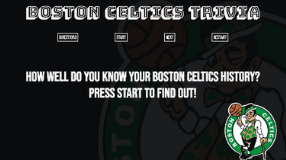
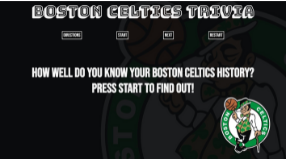
multiple css changes

diff --git a/src/components/ProjectCard/ProjectCard.js b/src/components/ProjectCard/ProjectCard.js
@@ -6,42 +6,42 @@ import styles from "./ProjectCard.module.css"
 
 export default function ProjectCard() {
     return (
+   <>    
+   <h1>Current Projects</h1>
 <div className={styles.cards}>
- <Card style={{ width: '18rem', margin: "2%" }}>
-        <Card.Img variant="top" src="/Boston Celtics Trivia.png" />
+ <Card style={{ width: '20rem', height:'34rem', margin: "3%" }}>
+        <Card.Img className={styles.image} variant="top" src="/Boston Celtics Trivia.png" />
         <Card.Body>
           <Card.Title className={styles.title}>Boston Celtics Trivia</Card.Title>
           <Card.Text className={styles.cardtext}>
-           Broswer based trivia game based on the history of the Boston Celtics. Built using <em>HTML</em>, <em>CSS</em>, <em>Vanilla JS</em> and <em>GitHub</em> for version control. 
+           Browser based trivia game based on the history of the Boston Celtics. The game features a win and lose state. Built using <em>HTML</em>, <em>CSS</em>, <em>Vanilla JavaScript</em> and <em>GitHub</em> for version control. 
           </Card.Text>
           <Button href="https://github.com/juliocolon/Boston-Celtics-Trivia-" target="_blank" variant="secondary">View Project</Button>
         </Card.Body>
       </Card>
-      <Card style={{ width: '18rem', margin: "2%"  }}>
-      <Card.Img variant="top" src="holder.js/100px180" />
+      <Card style={{ width: '20rem', height:'34rem', margin: "3%"  }}>
+      <Card.Img className={styles.image} variant="top" src="holder.js/100px180" />
       <Card.Body>
-        <Card.Title>Card Title</Card.Title>
-        <Card.Text>
+        <Card.Title className={styles.title}>Sneaker Forum</Card.Title>
+        <Card.Text className={styles.cardtext}>
           Some quick example text to build on the card title and make up the bulk of
           the card's content.
         </Card.Text>
-        <Button variant="primary">Go somewhere</Button>
+        <Button variant="secondary">Go somewhere</Button>
       </Card.Body>
     </Card>
-    <Card style={{ width: '18rem',margin: "2%" }}>
-    <Card.Img variant="top" src="holder.js/100px180" />
-    <Card.Body>
-      <Card.Title>Card Title</Card.Title>
-      <Card.Text>
-        Some quick example text to build on the card title and make up the bulk of
-        the card's content.
+    <Card style={{ width: '20rem', height:'34rem', margin: "3%" }}>
+    <Card.Img className={styles.image} variant="top" src="/The Roaming Spoon.png" />
+    <Card.Body id="card">
+      <Card.Title className={styles.title}>The Roaming Spoon</Card.Title>
+      <Card.Text className={styles.cardtext}>
+        Yelp like food truck application, built using MongoDB, Express, React.js, and Node.js. 
+        The application was created in collaboration with General Assembly Software Engineering and UI/UX students.  
       </Card.Text>
-      <Button variant="primary">Go somewhere</Button>
+      <Button href="https://github.com/juliocolon/roaming-food-trucks/tree/main" target="_blank" variant="secondary">View Project</Button>
     </Card.Body>
   </Card>
-
-
 </div>
-       
+    </>    
     )
 }

diff --git a/src/components/Footer/Footer.js b/src/components/Footer/Footer.js
@@ -17,7 +17,7 @@ const Footer = () => {
            <h2 style={{ color: "#FFFFFF", 
                    textAlign: "center", 
                    marginTop: "-50px" }}>
-      <a href="/#top" style={{color:"#FFFFFF", textDecoration: 'none'}}>Get In Touch</a>
+      <a href="#top" style={{color:"#FFFFFF", textDecoration: 'none'}}>Get In Touch</a>
       </h2>
         <Row>
           <Column>
@@ -30,7 +30,7 @@ const Footer = () => {
             <Heading><FooterLink href="https://twitter.com/JCCologne" target="_blank"><img src="/twitter.png" alt="logo" /></FooterLink></Heading>
           </Column>
           <Column>
-            <Heading> <FooterLink href="mailto: jcolon1092@gmail.com"><img src="/email.png" alt="logo" /> </FooterLink></Heading>
+            <Heading id="footer"> <FooterLink href="mailto: jcolon1092@gmail.com"><img src="/email.png" alt="logo" /> </FooterLink></Heading>
         
           </Column>
         </Row>

diff --git a/src/components/NavBar/NavBar.js b/src/components/NavBar/NavBar.js
@@ -1,17 +1,19 @@
 import Navbar from 'react-bootstrap/Navbar'
 import Container from 'react-bootstrap/Container'
 import Nav from 'react-bootstrap/Nav'
+import { Link } from 'react-router-dom'
 import 'bootstrap/dist/css/bootstrap.css'
+import styles from "./NavBar.module.css"
 
 export default function NavBar(){
     return (
 <nav>
   <Navbar  bg="dark" variant="dark">
     <Container>
-    <Navbar.Brand href="#home">Julio Colon</Navbar.Brand>
-    <Nav className="me-auto">
-      <Nav.Link href="#projects">Projects</Nav.Link>
-      <Nav.Link href="#contact">Contact</Nav.Link>
+    <Navbar.Brand><Link className={styles.link} to="/home">Julio Colon</Link></Navbar.Brand>
+    <Nav className={styles.link}>
+      <Nav.Link  href="#card">Projects</Nav.Link>
+      <Nav.Link href="#footer">Contact</Nav.Link>
     </Nav>
     </Container>
   </Navbar>

diff --git a/src/components/About/About.js b/src/components/About/About.js
@@ -11,7 +11,7 @@ export default function About() {
             <span className={styles.statement}>I'm a Marketing Professional & Software Engineer specializing in the MERN Stack.</span>
             <div className={styles.text}>
                 <p>My goal is to build intuitive, user-first, digital experiences.</p>
-                <p>To learn more about my professional background, click here to view & download my <a className={styles.anchor} href="https://pdfhost.io/v/gugwBMwm._Julio_Colon_Resume" target="_blank">resume</a>.</p>
+                <p>To learn more about my professional background, click here to view my <a className={styles.anchor} href="https://pdfhost.io/v/gugwBMwm._Julio_Colon_Resume" target="_blank">resume</a>.</p>
             </div>
 
         </div>

diff --git a/src/components/NavBar/NavBar.module.css b/src/components/NavBar/NavBar.module.css
@@ -1,0 +1,16 @@
+.link{
+    text-decoration: none;
+    color: darkgrey;
+}
+.link:hover{
+    color: whitesmoke;
+    opacity: 1;
+    /* Firefox */
+    -moz-transition: all 1s ease-in;
+    /* WebKit */
+    -webkit-transition: all 1s ease-in;
+    /* Opera */
+    -o-transition: all 1s ease-in;
+    /* Standard */
+    transition: all 1s ease-in;
+}

diff --git a/src/index.css b/src/index.css
@@ -2,7 +2,7 @@
 
 
 .App {
-    background: linear-gradient(0deg, rgb(53, 47, 47) 0%, rgb(82, 92, 102) 100%);
+    background: radial-gradient(circle, rgba(125,129,147,1) 0%, rgba(15,13,14,0.9542410714285714) 100%);
     font-family: 'Ubuntu Mono', monospace;
     font-size: larger;
     scroll-behavior: smooth;
